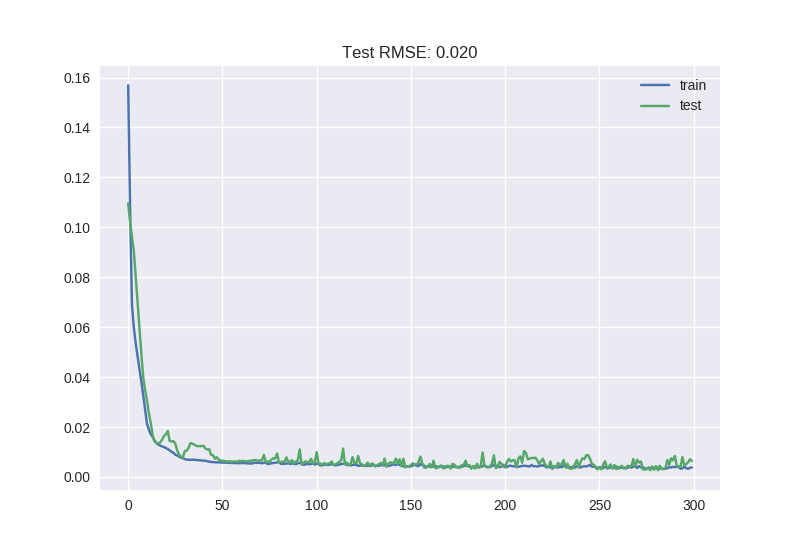
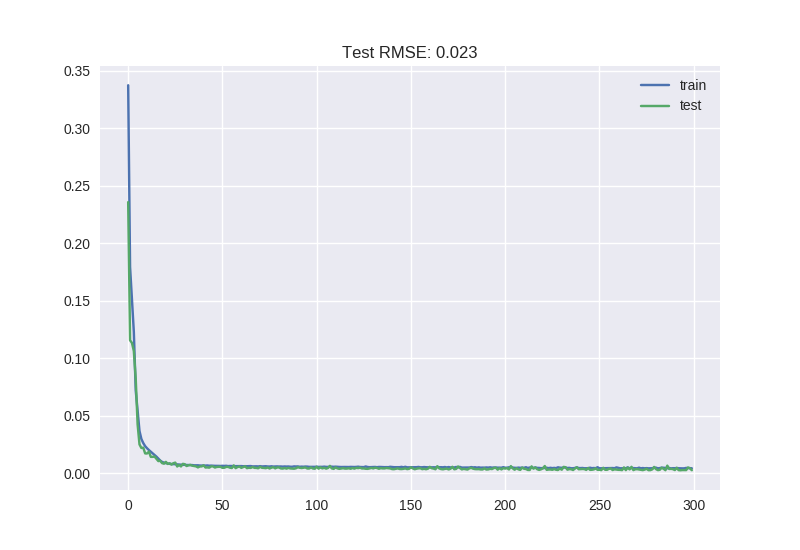
stack LSTM layers for improved performance - change activation of the Dense layer

diff --git a/play/lstm.py b/play/lstm.py
@@ -60,11 +60,8 @@ bs = int(sys.argv[2])
 epoch = int(sys.argv[3])
 #set first layer width
 lw = int(sys.argv[4])
-
-# sn = 1
-# bs = 100
-# epoch = 20
-# lw = 80
+#set number of stacked LSTM layers
+stack_depth = int(sys.argv[5])
 
 setnumber = 'FD00' + str(sn)
 train, train_scaler = more_preprocessing('train', setnumber, [21, 22])
@@ -80,8 +77,10 @@ test_X = test_X.reshape((test_X.shape[0], 1, test_X.shape[1]))
 
 # design network
 model = keras.models.Sequential()
+for i in range(stack_depth-1):
+        model.add(keras.layers.LSTM(lw, input_shape=(train_X.shape[1], train_X.shape[2]), return_sequences=True))
 model.add(keras.layers.LSTM(lw, input_shape=(train_X.shape[1], train_X.shape[2])))
-model.add(keras.layers.Dense(1, activation='relu'))
+model.add(keras.layers.Dense(1, activation='softplus')) #more stable compared to 'relu'...
 model.compile(loss='mae', optimizer='adam')
 # fit network
 history = model.fit(train_X, train_y, epochs=epoch, batch_size=bs, validation_data=(test_X, test_y), verbose=1, shuffle=True)
@@ -108,4 +107,4 @@ rmse = sqrt(sklearn.metrics.mean_squared_error(test_y, yhat))
 print('Test RMSE: %.3f' % rmse)
 
 plt.title('Test RMSE: %.3f' % rmse)
-plt.savefig('plots/'+setnumber+'_BatchSize'+str(bs)+'_Epochs'+str(epoch)+'_LayerWidth'+str(lw)+'.png')
+plt.savefig('plots/'+setnumber+'_BatchSize'+str(bs)+'_Epochs'+str(epoch)+'_LayerWidth'+str(lw)+'_Stack'+str(stack_depth)+'.png')

diff --git a/play/preprocessing.py b/play/preprocessing.py
@@ -61,7 +61,7 @@ cat_test, scale_test = find_col_types(test, id_columns)
 label = pd.read_csv('original_data/'+'RUL_'+setnumber+'.txt', header=None)
 label.reset_index(level=[0], inplace=True)
 label.columns = ['id', 'RUL']
-label['id'] = label['id'] + 1  #index is 0-bount but part_ids are 1-bound
+label['id'] = label['id'] + 1  #index is 0-bound but part_ids are 1-bound
 
 test = calculate_test_RUL(test, label)
 test.to_csv('data/test_'+setnumber+'.csv')
@@ -70,6 +70,8 @@ plt.figure()
 sns.distplot(train.RUL, label='train')
 sns.distplot(test.RUL, label='test')
 plt.legend()
+plt.title('RUL distribution for various engines (ids)')
 #plt.show()
+plt.savefig('plots/'+setnumber+'_RULs.png')
 
 plot_correlations(train, drop_cols=['id', 'cycle', 'RUL'], title=setnumber, plot_name=setnumber)

diff --git a/play/README.md b/play/README.md
@@ -1,3 +1,3 @@
 #### To get started
 - python preprocessing.py [dataset number between 1 and 4]
-- python lstm.py [dataset number between 1 and 4] [batch size] [number of epochs] [number of neurons in the first hidden layer]
+- python lstm.py [dataset number between 1 and 4] [batch size] [number of epochs] [number of LSTM units] [number of stacked LSTM layers]
